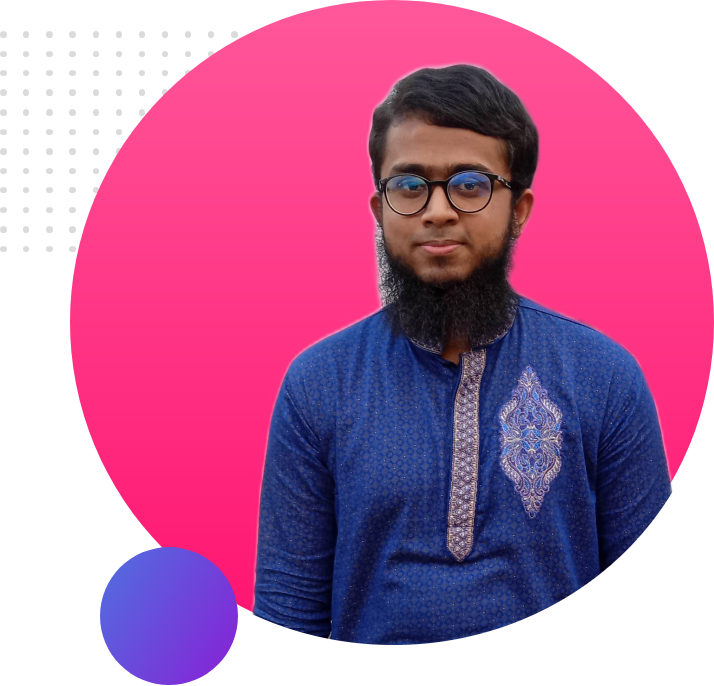
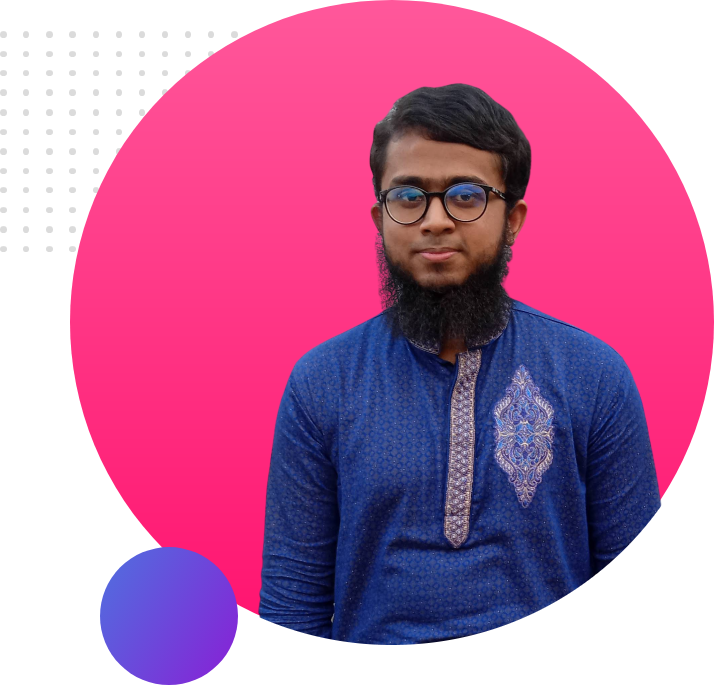
Dream Part Added!

Changed region(s): [[0.3389, 0.0918, 0.9552, 0.949], [0.4622, 0.4592, 0.5238, 0.4898]]

diff --git a/index.html b/index.html
@@ -18,11 +18,23 @@
             <h1> <span class="name-highlight">Samial's</span> Website</h1>
             <h3>Professional Full Stack Web Developer</h3>
             <p>I can build attractive websites for you. I am very passionate about my work. Every day I try to learn something new and climb myself up one step further to become a world-class web developer.</p>
-            <a class="link-button" href="" target="_blank">HIRE ME</a>
+            <a class="link-button" href="#">HIRE ME</a>
         </div>
         <div class="half-width">
-            <img src="images/myProfile.png" alt="My Profile">
+            <img src="images/myProfile.png" alt="Samial's Profile">
         </div>
+    </section>
+    <section class="dream-area">
+        <div class="half-width">
+            <img src="images/mySecondProfile.png" alt="Samial's Second Profile">
+        </div>
+        <div class="half-width">
+            <h2>Dream Big</h2>
+            <h3>Become World's No. 1 Developer</h3>
+            <p>I already learned the basic HTML and CSS. I can build any simple website. My goal is to learn more advanced topics of web development and to build more exclusive websites.</p>
+            <a class="link-button" href="#">DOWNLOAD RESUME</a>
+        </div>
+
     </section>
 </body>
 </html>

diff --git a/style.css b/style.css
@@ -5,6 +5,16 @@ body{
 h1{
     font-size: 50px;
 }
+h2{
+    font-size: 40px;
+    color: #FF3685;;
+}
+h3{
+    color: #4d14ad;
+}
+p{
+    color: dimgray;
+}
 .name-highlight{
     color: #FF3685;
 }
@@ -23,6 +33,7 @@ h1{
 }
 section{
     height: 500px;
+    padding-bottom: 150px;
 }
 .link-button{
     color: white;
@@ -31,4 +42,9 @@ section{
     border-radius: 5px;
     background-image: linear-gradient(45deg, #ec8cb2,#FF2D80);
     padding: 10px 20px;
+}
+.dream-area{
+    background-image: url("images/dreamBackground.png");
+    background-repeat: no-repeat;
+    background-position: right;
 }
